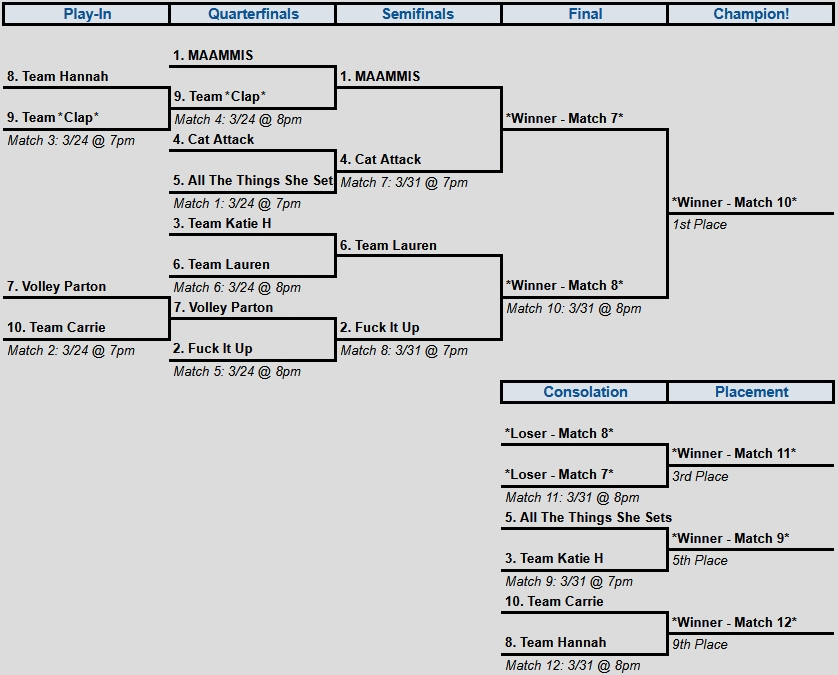
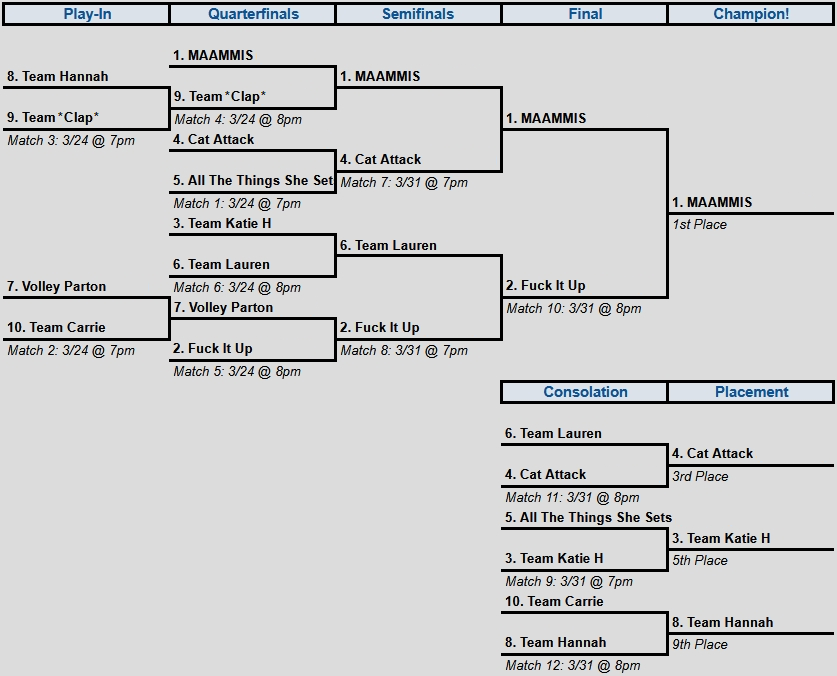
p2 scores

diff --git a/womens/dcwvb_win26.html b/womens/dcwvb_win26.html
@@ -1403,74 +1403,74 @@
         </tr>
         <tr>
           <td class="box_score_top_team_white">MAAMMIS</td>
-          <td class="box_score_top_score_white"></td>
+          <td class="box_score_top_score_white">1</td>
         </tr>
         <tr>
           <td class="box_score_bot_team_white">Cat Attack</td>
-          <td class="box_score_bot_score_white"></td>
+          <td class="box_score_bot_score_white">0</td>
         </tr>
         <tr>
           <th class="box_score_court_white" colspan="2">Court 2 - Semifinal 2</th>
         </tr>
         <tr>
           <td class="box_score_top_team_white">Fuck It Up</td>
-          <td class="box_score_top_score_white"></td>
+          <td class="box_score_top_score_white">1</td>
         </tr>
         <tr>
           <td class="box_score_bot_team_white">Team Lauren</td>
-          <td class="box_score_bot_score_white"></td>
+          <td class="box_score_bot_score_white">0</td>
         </tr>
         <tr>
           <th class="box_score_court_white" colspan="2">Court 3 - 5th Place</th>
         </tr>
         <tr>
           <td class="box_score_top_team_white">All The Things She Sets</td>
-          <td class="box_score_top_score_white"></td>
+          <td class="box_score_top_score_white">0</td>
         </tr>
         <tr>
           <td class="box_score_bot_team_white">Team Katie H</td>
-          <td class="box_score_bot_score_white"></td>
+          <td class="box_score_bot_score_white">1</td>
         </tr>
         <tr>
           <th class="box_score_8pm" rowspan="9">8 PM</th>
           <th class="box_score_court_gold" colspan="2">Court 1 - 1st Place</th>
         </tr>
         <tr>
-          <td class="box_score_top_team_gray">Winner - Semifinal 1</td>
-          <td class="box_score_top_score_gray"></td>
+          <td class="box_score_top_team_gray">MAAMMIS</td>
+          <td class="box_score_top_score_gray">1</td>
         </tr>
         <tr>
-          <td class="box_score_bot_team_gray">Winner - Semifinal 2</td>
-          <td class="box_score_bot_score_gray"></td>
+          <td class="box_score_bot_team_gray">Fuck It Up</td>
+          <td class="box_score_bot_score_gray">0</td>
         </tr>
         <tr>
           <th class="box_score_court_bronze" colspan="2">Court 2 - 3rd Place</th>
         </tr>
         <tr>
-          <td class="box_score_top_team_gray">Loser - Semifinal 2</td>
-          <td class="box_score_top_score_gray"></td>
+          <td class="box_score_top_team_gray">Team Lauren</td>
+          <td class="box_score_top_score_gray">0</td>
         </tr>
         <tr>
-          <td class="box_score_bot_team_gray">Loser - Semifinal 1</td>
-          <td class="box_score_bot_score_gray"></td>
+          <td class="box_score_bot_team_gray">Cat Attack</td>
+          <td class="box_score_bot_score_gray">1</td>
         </tr>
         <tr>
           <th class="box_score_court_gray" colspan="2">Court 3 - 9th Place</th>
         </tr>
         <tr>
           <td class="box_score_top_team_gray">Team Carrie</td>
-          <td class="box_score_top_score_gray"></td>
+          <td class="box_score_top_score_gray">0</td>
         </tr>
         <tr>
           <td class="box_score_bot_team_gray">Team Hannah</td>
-          <td class="box_score_bot_score_gray"></td>
+          <td class="box_score_bot_score_gray">1</td>
         </tr>
       </table>
     </div>
 
     <div id="BR" style="display:none;margin-left:10px;margin-top:10px;margin-right:10px;margin-bottom:10px;">
       <div>
-        <img title="Bracket" style="height:100%;width:min(838px,100%);" src="../images/dcwvb/dcwvb_win26_bracket.png">
+        <img title="Bracket" style="height:100%;width:min(837px,100%);" src="../images/dcwvb/dcwvb_win26_bracket.png">
       </div>
     </div>
 
